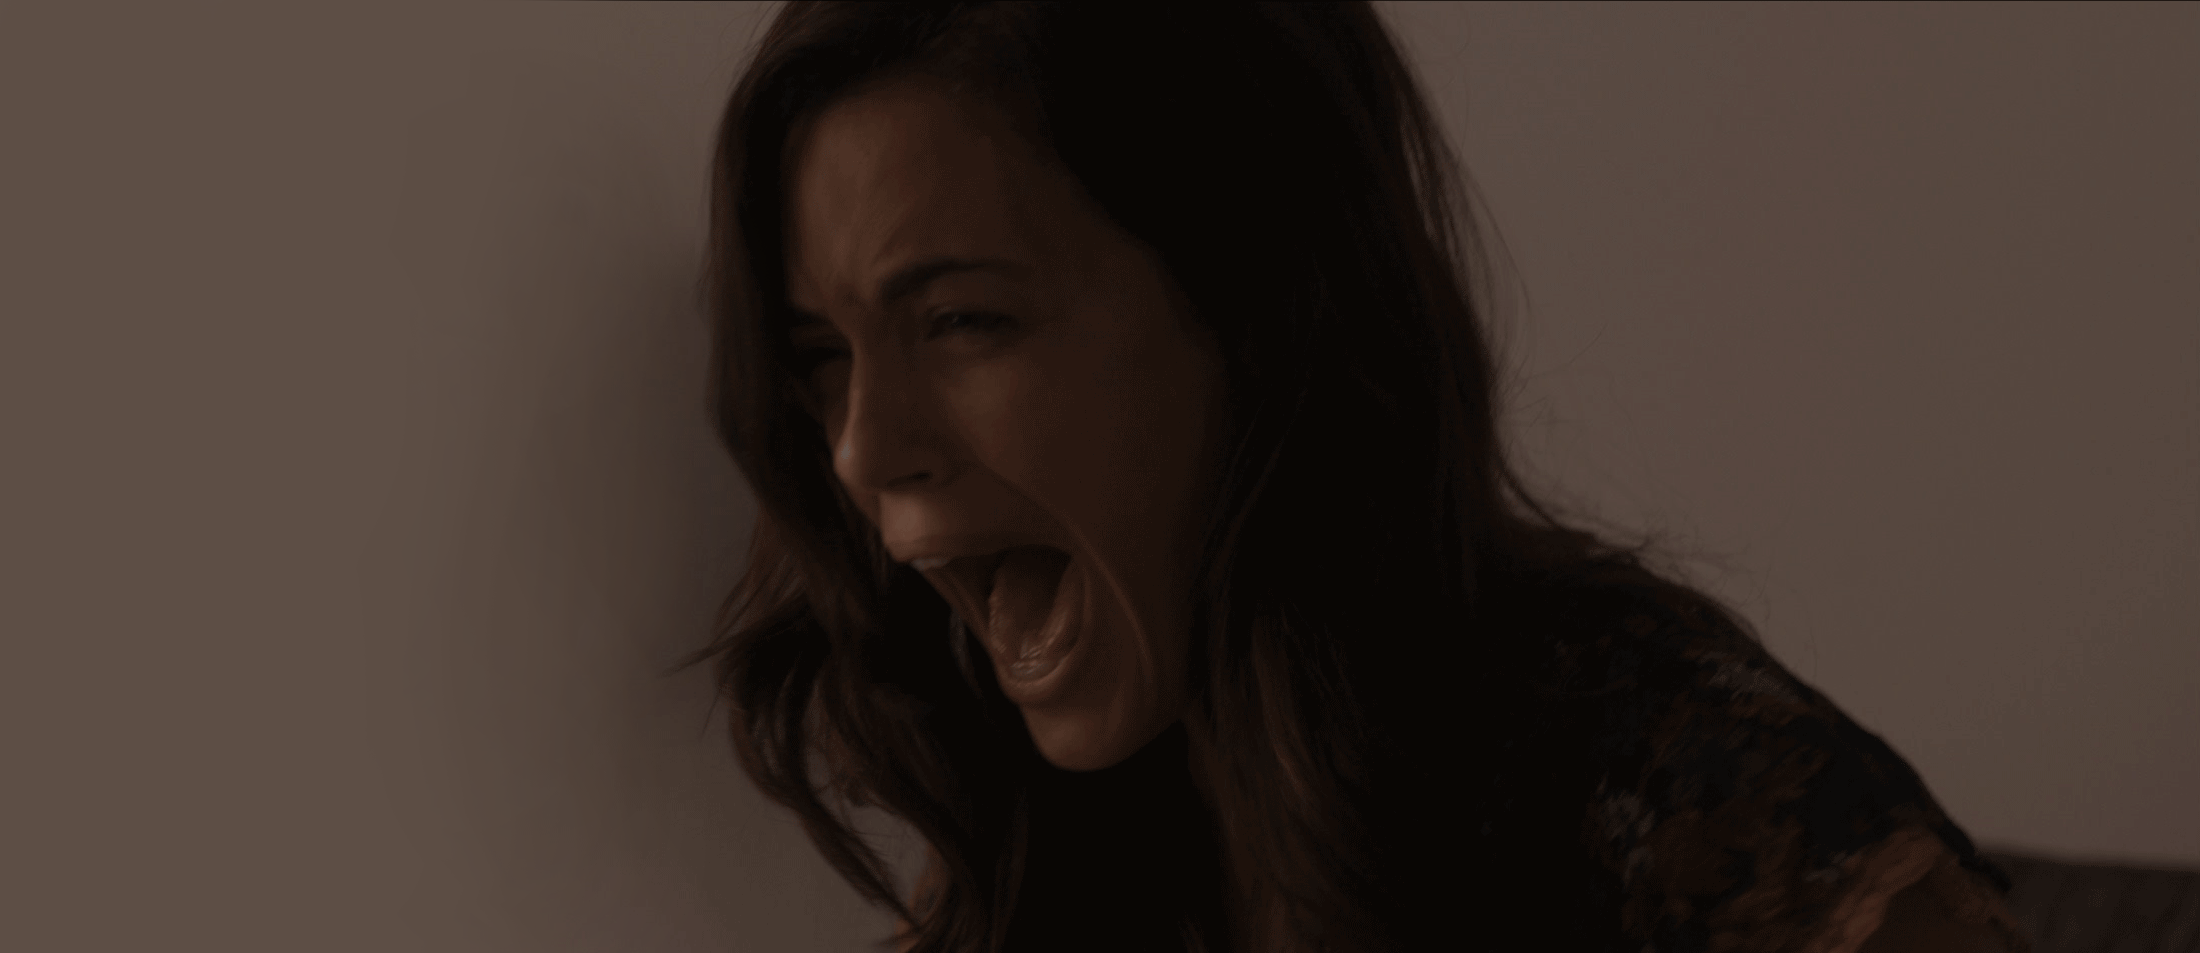
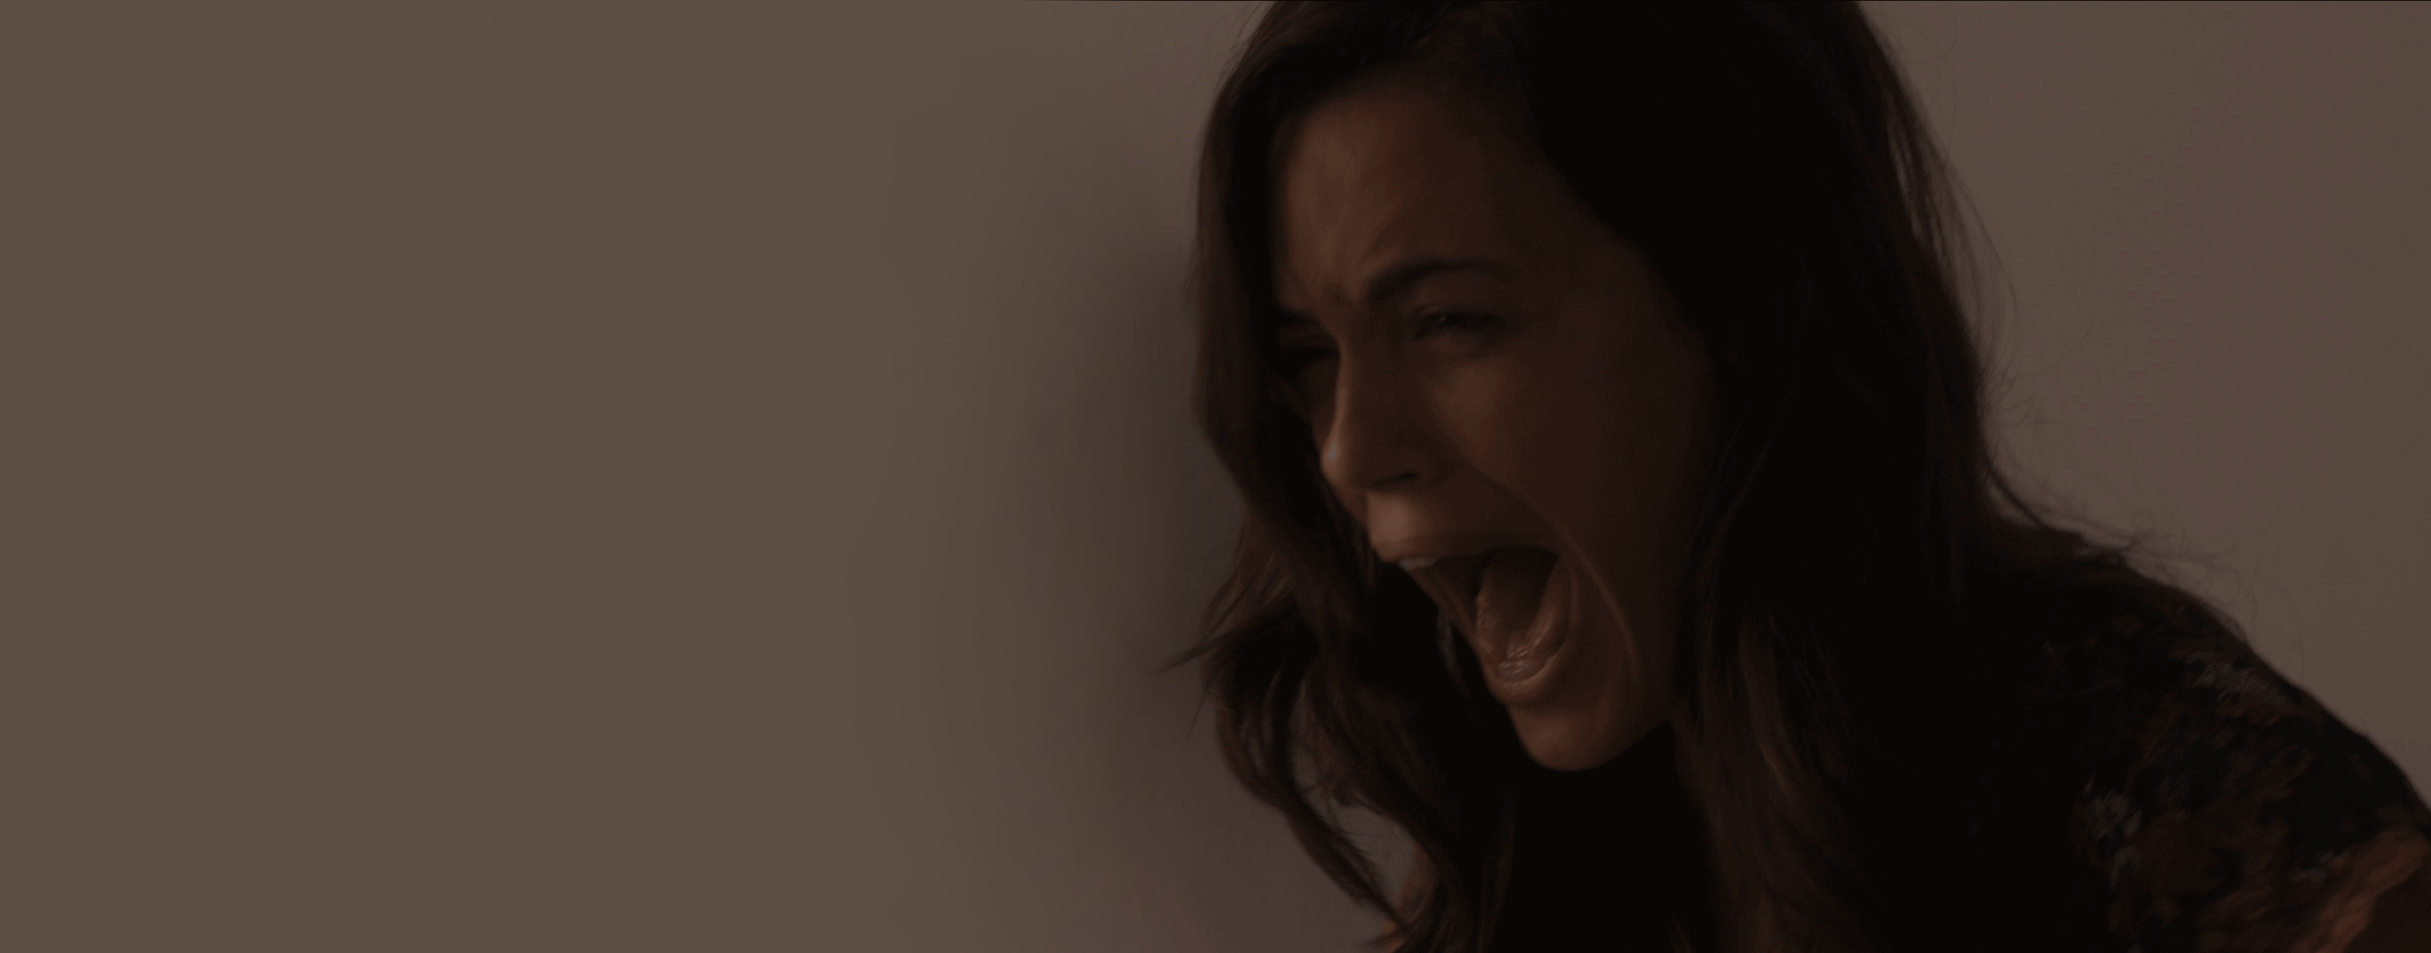
Updated cropping/photo edits.

diff --git a/index.js b/index.js
@@ -33,37 +33,40 @@ $(document).ready(function(){
     }
 
     if (num == 1) {
-      var current = slider1.getCurrentSlide();
-      var slideQty = slider1.getSlideCount();
-      var randomSlide = Math.round(Math.random() * (slideQty - 1));
-      while (randomSlide == current) {
-        randomSlide = Math.round(Math.random() * (slideQty - 1));
-      };
-      console.log (num, randomSlide);
-      slider1.goToSlide(randomSlide);
+      // var current = slider1.getCurrentSlide();
+      // var slideQty = slider1.getSlideCount();
+      // var randomSlide = Math.round(Math.random() * (slideQty - 1));
+      // while (randomSlide == current) {
+      //   randomSlide = Math.round(Math.random() * (slideQty - 1));
+      // };
+      // console.log (num, randomSlide);
+      // slider1.goToSlide(randomSlide);
+      slider1.goToNextSlide();
     } else if (num == 2) {
-      var current = slider2.getCurrentSlide();
-      var slideQty = slider2.getSlideCount();
-      var randomSlide = Math.round(Math.random() * (slideQty - 1));
-      while (randomSlide == current) {
-        randomSlide = Math.round(Math.random() * (slideQty - 1));
-      };
-      console.log (num, randomSlide);
-      if ((randomSlide == 1) || (randomSlide == 2) || (randomSlide == 5)){
-        $('.image-strip-2 .text h1').css('color', 'black');
-      } else {
-        $('.image-strip-2 .text h1').css('color', 'white');
-      }
-      slider2.goToSlide(randomSlide);
+      // var current = slider2.getCurrentSlide();
+      // var slideQty = slider2.getSlideCount();
+      // var randomSlide = Math.round(Math.random() * (slideQty - 1));
+      // while (randomSlide == current) {
+      //   randomSlide = Math.round(Math.random() * (slideQty - 1));
+      // };
+      // console.log (num, randomSlide);
+      // if ((randomSlide == 1) || (randomSlide == 2) || (randomSlide == 5)){
+      //   $('.image-strip-2 .text h1').css('color', 'black');
+      // } else {
+      //   $('.image-strip-2 .text h1').css('color', 'white');
+      // }
+      // slider2.nex(randomSlide);
+      slider2.goToNextSlide();
     } else if (num == 3) {
-      var current = slider3.getCurrentSlide();
-      var slideQty = slider3.getSlideCount();
-      var randomSlide = Math.round(Math.random() * (slideQty - 1));
-      while (randomSlide == current) {
-        randomSlide = Math.round(Math.random() * (slideQty - 1));
-      };
-      console.log (num, randomSlide);
-      slider3.goToSlide(randomSlide);
+      // var current = slider3.getCurrentSlide();
+      // var slideQty = slider3.getSlideCount();
+      // var randomSlide = Math.round(Math.random() * (slideQty - 1));
+      // while (randomSlide == current) {
+      //   randomSlide = Math.round(Math.random() * (slideQty - 1));
+      // };
+      // console.log (num, randomSlide);
+      // slider3.goToSlide(randomSlide);
+      slider3.goToNextSlide();
     }
   }, 3000);
 

diff --git a/index.html b/index.html
@@ -158,7 +158,6 @@
           <li style='background-image: url("assets/amy-makes-three-2-6.png");'></li>
           <li style='background-image: url("assets/amy-makes-three-2-7.png");'></li>
           <li style='background-image: url("assets/amy-makes-three-2-8.png");'></li>
-          <li style='background-image: url("assets/amy-makes-three-2-9.png");'></li>
         </ul>
       </div>
     </div>
@@ -174,8 +173,6 @@
           <li style='background-image: url("assets/amy-makes-three-3-5.png");'></li>
           <li style='background-image: url("assets/amy-makes-three-3-6.png");'></li>
           <li style='background-image: url("assets/amy-makes-three-3-7.png");'></li>
-          <li style='background-image: url("assets/amy-makes-three-3-8.png");'></li>
-          <li style='background-image: url("assets/amy-makes-three-3-9.png");'></li>
         </ul>
       </div>
     </div>

diff --git a/index.css b/index.css
@@ -45,7 +45,7 @@ p { font-family: 'Roboto', sans-serif; font-size: 18px; text-transform: uppercas
 .image-strip-1 p { letter-spacing: -.05em; }
 .image-strip-1 h1 { margin: -5px; padding: 5px; }
 .strikethrough { background-image:url('assets/red-strikethrough.png'); background-repeat: no-repeat; background-position: center; }
-.image-strip-2 .text { text-align: right; z-index: 100; position: absolute; top: 580px; width: 100%; text-align: center; }
+.image-strip-2 .text { color: white; text-shadow: 0 0 5px #000; text-align: right; z-index: 100; position: absolute; top: 580px; width: 100%; text-align: center; }
 
 .emphasis-box {
   display: none;
